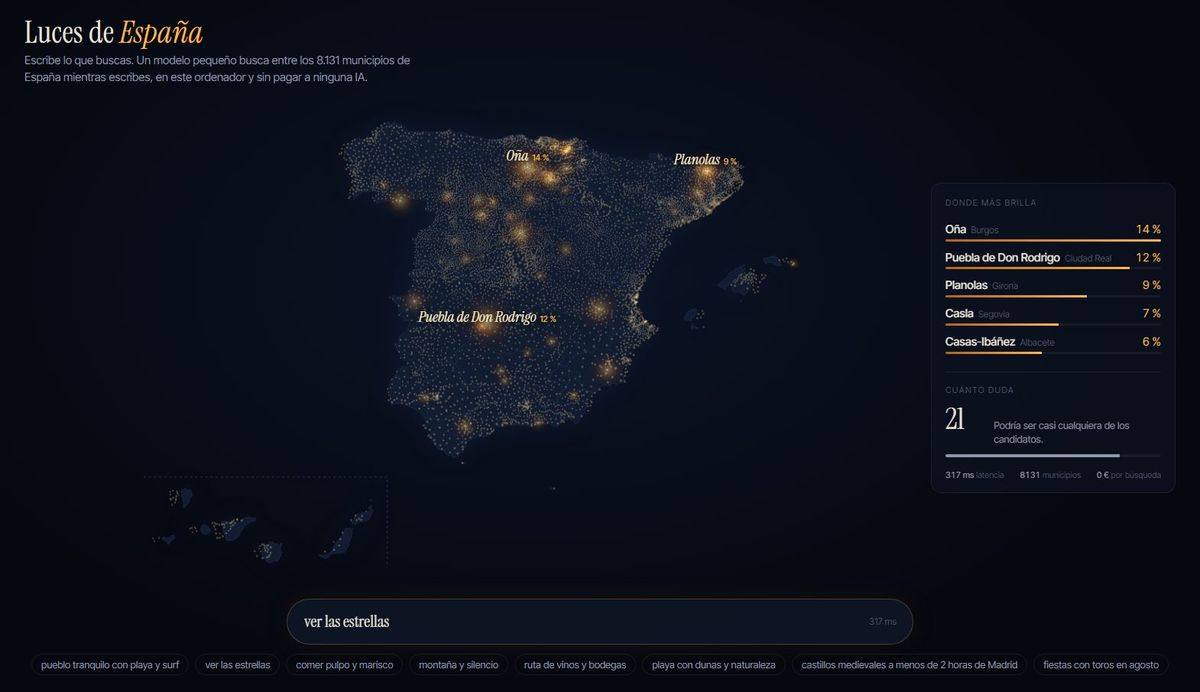
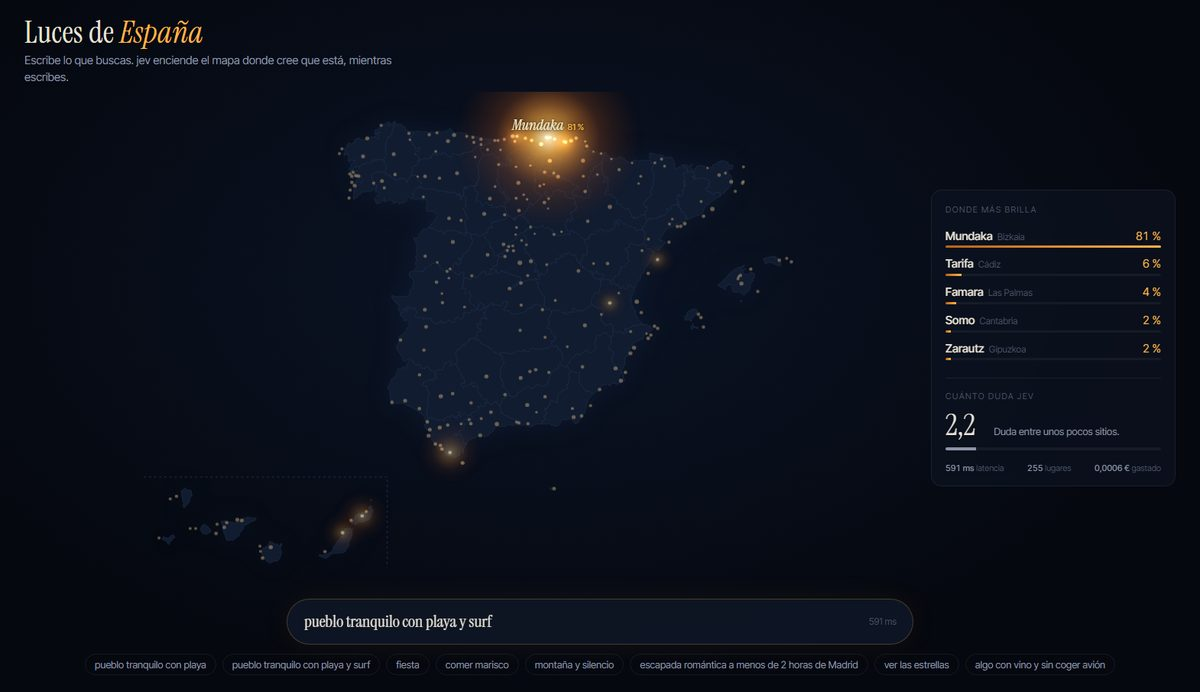
Luces de España: captura del mapa de 255 lugares con jev
Claude-Session: https://claude.ai/code/session_01CSoqnJH7vqbRjwjvzXemqk

diff --git a/index.html b/index.html
@@ -141,7 +141,7 @@ footer p { margin: 0 0 8px; max-width: 90ch; }
     </article>
 
     <article class="demo">
-      <img src="demos/img/luces.jpg" alt="Mapa nocturno de España con puntos de luz; los lugares que encajan con la búsqueda brillan más" width="1200" height="692">
+      <img src="demos/img/luces.jpg" alt="Mapa nocturno de España con 255 lugares; con «pueblo tranquilo con playa y surf» Mundaka brilla con un 81 %" width="1200" height="692">
       <div class="body">
         <h3>Luces de España</h3>
         <p class="who">jev elige entre 255 lugares; después, los 8.131 municipios</p>
